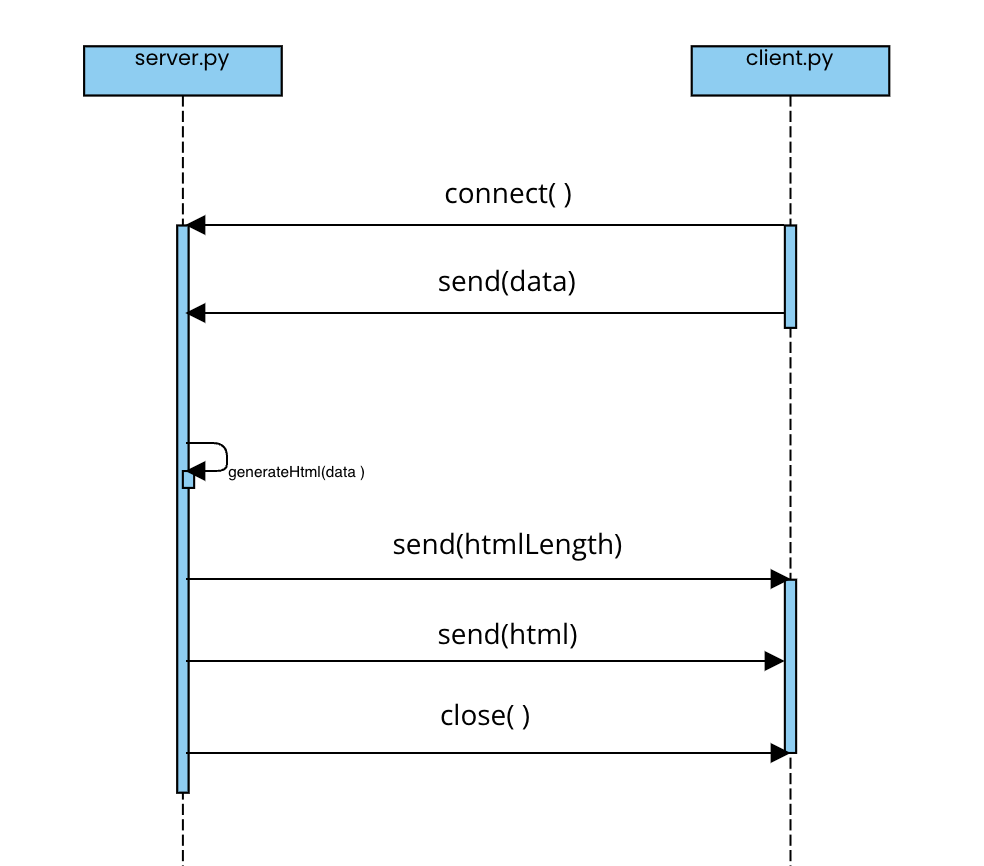
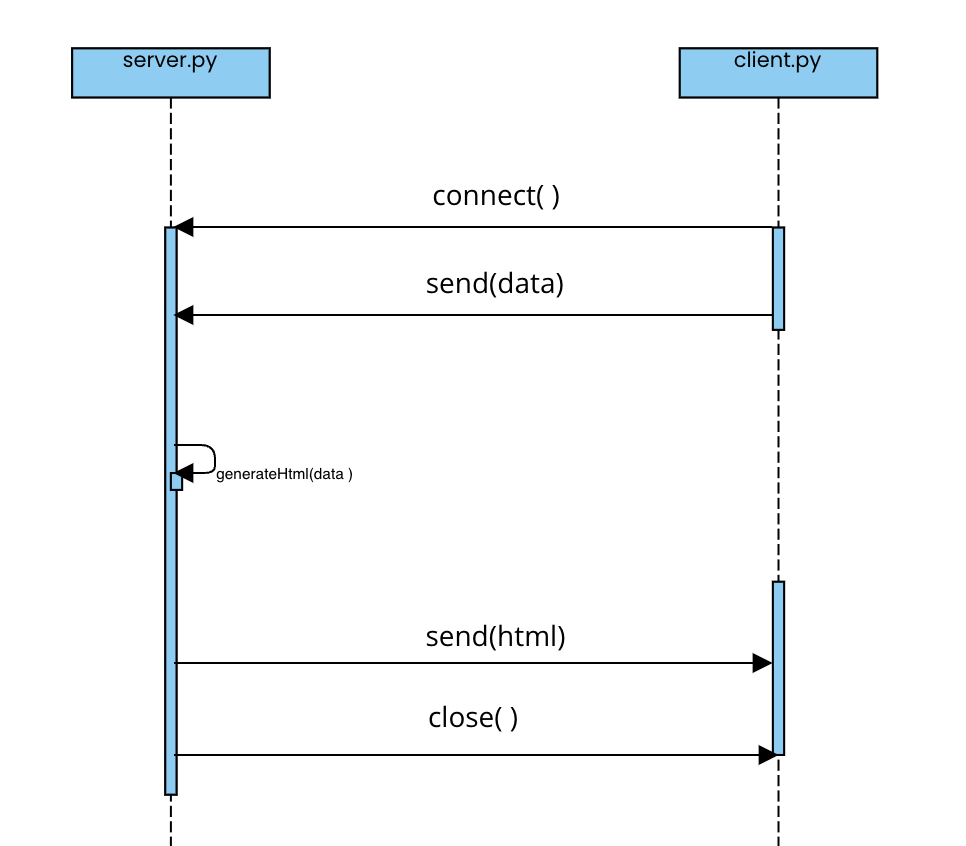
Remove length of html being sent/received.

Changed region(s): [[0.0621, 0.0307, 0.9317, 1.0]]

diff --git a/email.html b/email.html
@@ -1,0 +1,24 @@
+<!DOCTYPE html>
+    <html lang="en">
+    <head>
+        <meta charset="UTF-8">
+        <meta http-equiv="X-UA-Compatible" content="IE=edge">
+        <meta name="viewport" content="width=device-width, initial-scale=1.0">
+        <title>Email</title>
+    </head>
+    <body>
+        <h1>Subject: Just cussin' around.</h1>
+        <p>You have been sent a record of shared expenses between Randy Marsh, Heath Ledger, Stanley Kubrick. The following is a snapshop of that ledger from 2023-07-25</p>
+        <table style="width:80%">
+    <tr>
+        <th>Item</th>
+        <th>Amount</th>
+        <th>Date</th>
+        <th>Paid By</th>
+    </tr>
+    <tr><td>Go Karts</td><td>350.00</td><td>2008-04-01</td><td>Randy Marsh</td></tr><tr><td>Brewskies</td><td>91.55</td><td>2008-04-01</td><td>Heath Ledger</td></tr><tr><td>Hotdog Competition</td><td>33.00</td><td>2008-10-20</td><td>Stanley Kubrick</td></tr><tr><td>(del)L</td><td>900,000.00</td><td>2009-06-02</td><td>Stanley Kubrick</td></tr><tr><td>River Cruise</td><td>1,900.00****</td><td>2011-10-19</td><td>Stanley Kubrick</td></tr><tr><td>Video Games</td><td>60.00</td><td>2012-08-30</td><td>Heath Ledger</td></tr><tr><td>Brews</td><td>32.00</td><td>2012-05-01</td><td>Randy Marsh</td></tr><tr><td>Golf</td><td>800.00</td><td>2013-07-26</td><td>Heath Ledger</td></tr>
+    </table>
+    <p>Note that items with an " * " means they have been edited. Items with "del" have been removed from the summary.</p>
+        <h2>Ledger summary: </h2>
+    </body>
+    </html>

diff --git a/client.py b/client.py
@@ -103,16 +103,12 @@ print('')
 print("Sent Ledger to server successfully.")
 
 # RECEIVING HTML from SERVER
-# receive size of html file
-htmlLen = clientSocket.recv(1024).decode()
-htmlLen = int(htmlLen)
 html = ''
 while True:
     res = clientSocket.recv(2024).decode()
     html += res
 
-    # if client has received the entire html file
-    if len(html) == htmlLen:
+    if not res:
         print('')
         print('HTML received from server:', html)
         # create email.html

diff --git a/server.py b/server.py
@@ -64,11 +64,6 @@ while True:
         <h2>Ledger summary: {summary}</h2>
     </body>
     </html>'''
-    # send html size and data
-    htmlLen = str(len(html))
-    print('sending length of html:', htmlLen)
-    print('')
-    commSocket.send(htmlLen.encode())
     commSocket.send(html.encode())
     print('sending html')
     commSocket.close()

diff --git a/README.md b/README.md
@@ -13,11 +13,8 @@ This microservice uses a TCP server and client. The client sends the server JSON
 
 # How to programmatically RECEIVE data
 
-1. Receive length of html being sent from server & convert to an integer  
-   `htmlLen = s.recv(1024).decode()`
-   `htmlLen = int(htmlLen)`
-2. Receive to `html` until length matches the length received prior  
-   `res = clientSocket.recv(2024).decode()`
+1. Receive html generated by server  
+   `res = clientSocket.recv(2024).decode()`  
    `html += res`
 
 # UML
